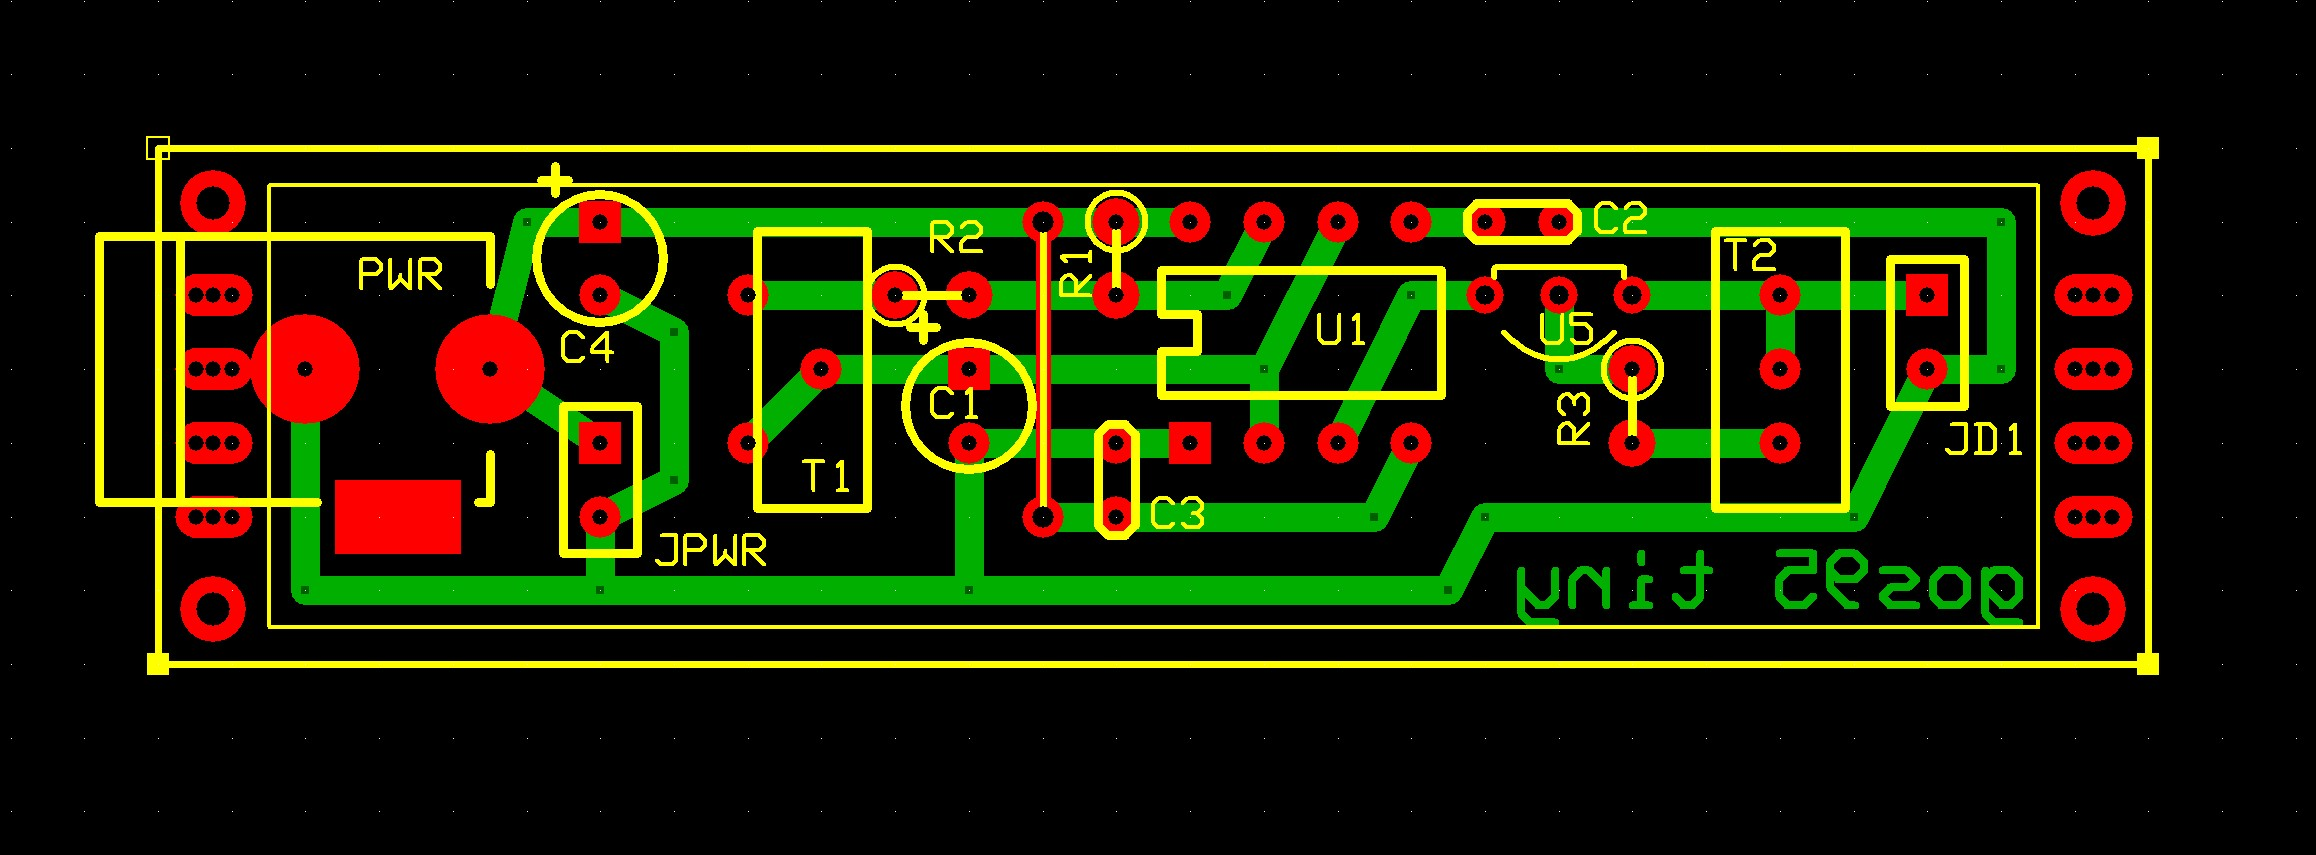
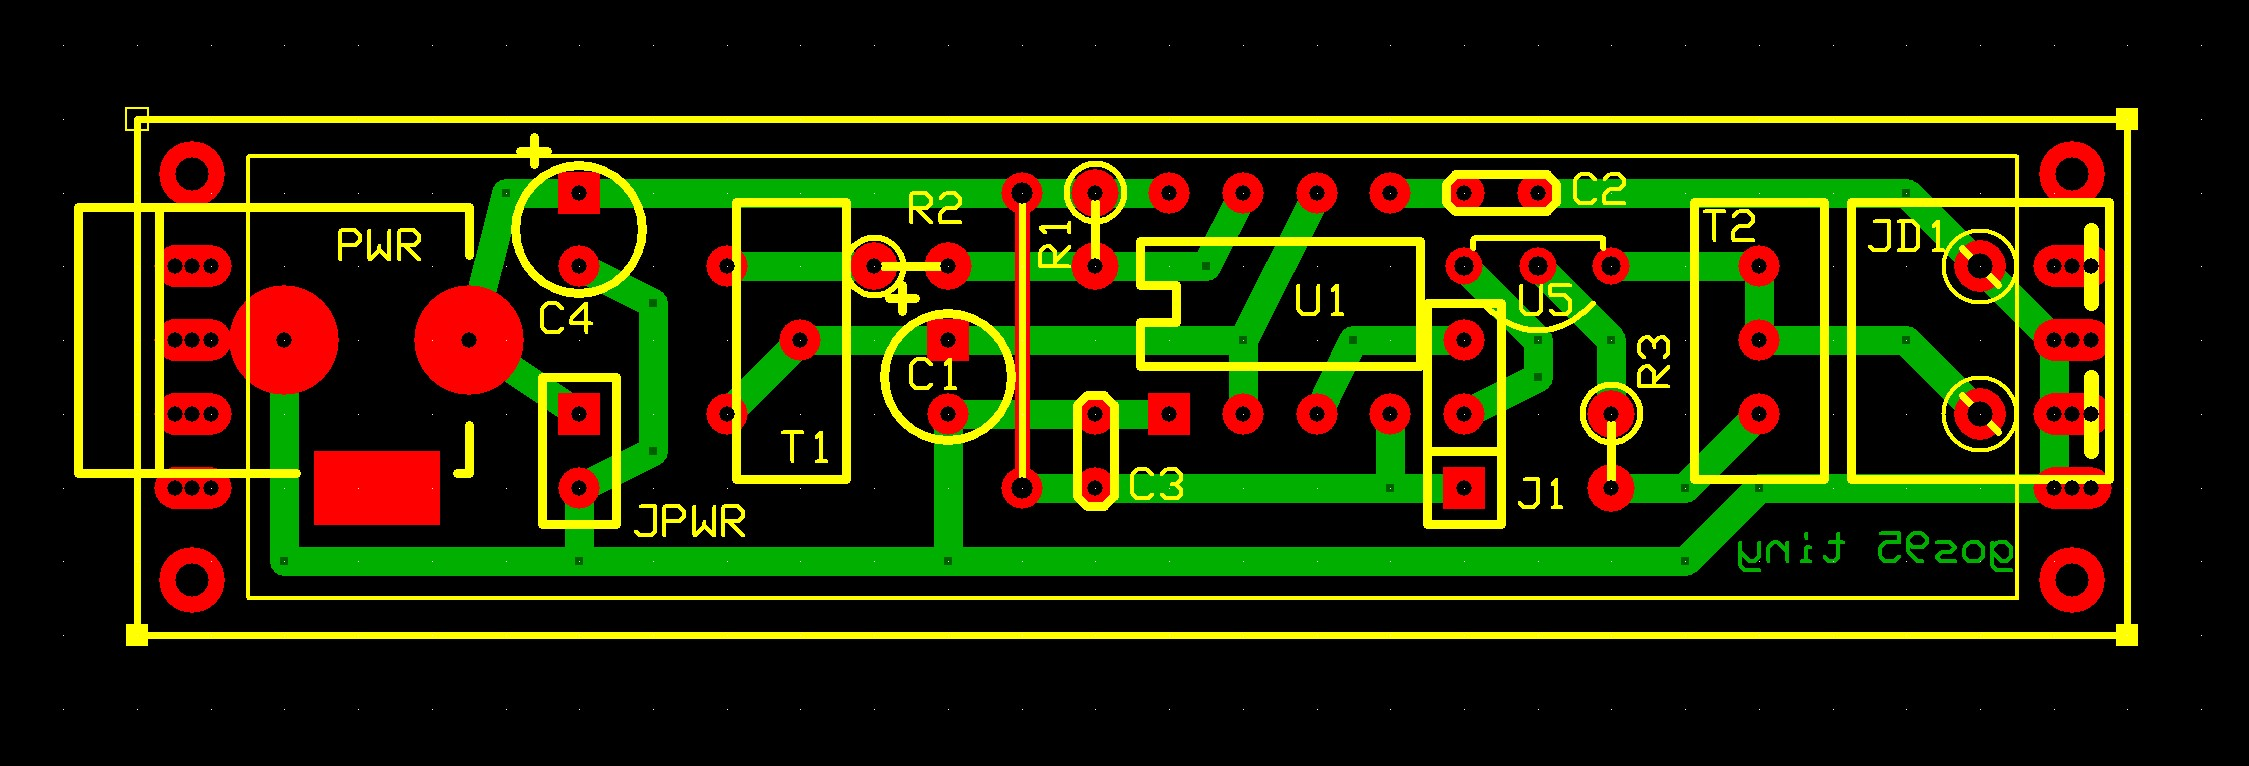
update tiny board (enable/disable intermittence via J1)

diff --git a/boards/medium-board/README.md b/boards/medium-board/README.md
@@ -3,6 +3,7 @@ Board with 3 configurable intermittence modules capable of drive 5 LED-strings, 
 The light intensity can be varied via trimmers T4-T8,
 and the period of intermittence can be varied using the T1-T3 trimmers, between about 5 and 20 seconds. 
 The firelight set consists of a fixed LED output and a tremolo LED output (red+orange?).
+The intermittence modules can be plugged to none, one or two drivers by J1-J5 jumpers.
 
 ![board-built](medium-board_built.jpg)
 
@@ -16,7 +17,7 @@ The firelight set consists of a fixed LED output and a tremolo LED output (red+o
 
 
 ## Bill of Materials
-- [x] paperboard 7x10cm
+- [x] paperboard 7x9cm
 - [x] 3 x IC 555 timer
 - [x] 5 x IC LM317 3-terminal adjustable regulator
 - [x] 3 x Transistor BJT NPN for low current

diff --git a/README.md b/README.md
@@ -70,7 +70,7 @@ $$ white \sim 3.2 - 4.0 $$
 
 
 ## Boards
-- [Tiny Board](boards/tiny-board) implements a single line intermittence board.
+- [Tiny Board](boards/tiny-board) implements a single line configurable intermittence board.
 - [Small Board](boards/small-board) implements a configurable board with 1 intermittence module capable of drive 2 LED-strings.
 - [Medium Board](boards/medium-board) implements a configurable board with 3 intermittence modules capable of drive 5 LED-strings, plus a firelight set.
 

diff --git a/boards/small-board/README.md b/boards/small-board/README.md
@@ -2,7 +2,7 @@
 Configurable board with 1 intermittence module capable of drive 2 LED-strings.
 The light intensity can be varied via trimmers T2/T3,
 and the period of intermittence can be varied using the T1 trimmer, between about 5 and 20 seconds.
-The intermittence module can be plugget to none, one or both the drivers via J1/J2 jumpers.
+The intermittence module can be plugged to none, one or both the drivers via J1/J2 jumpers.
 
 ![board-built](small-board_built.jpg)
 

diff --git a/boards/tiny-board/README.md b/boards/tiny-board/README.md
@@ -2,6 +2,7 @@
 Single line intermittence board.
 The light intensity can be varied via trimmer T2,
 and the period of intermittence can be varied using T1 trimmer, between about 5 and 20 seconds.
+The intermittence can be enable or disable by J1.
 
 ![board-built](tiny-board_built.jpg)
 
